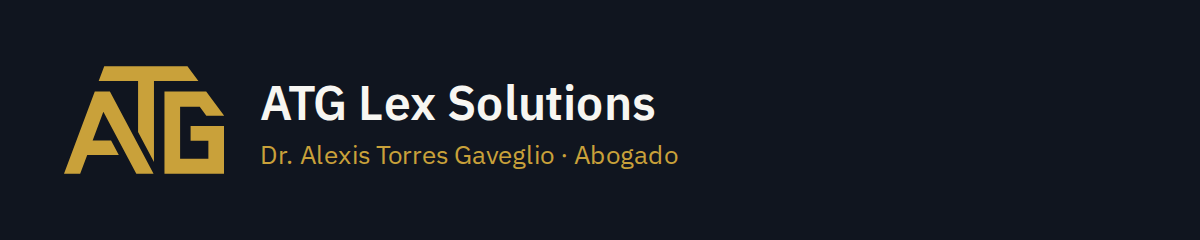
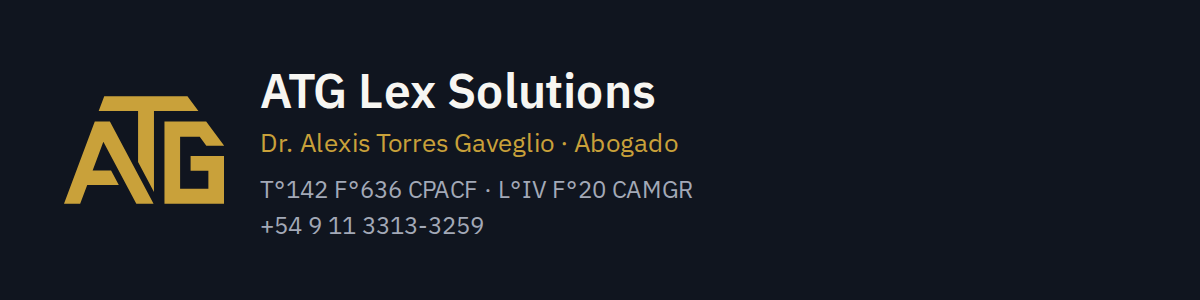
Encabezado de mail con matrícula y teléfono
Claude-Session: https://claude.ai/code/session_01WAEJdPq3XwKLAEZXuKBK7c

diff --git a/Context.md b/Context.md
@@ -96,7 +96,7 @@
 
 ### 2026-09-24 — Logo en los PDF y encabezado para los mails
 *   **PDF** (`utils/pdfMembrete.js`): membrete con el monograma dibujado en vector (mismos polígonos que `ui/Logo.jsx`), "ATG Lex Solutions", "Dr. Alexis Torres Gaveglio · Abogado" y una línea dorada. Lo usan el escrito de reclamo (`generarEscrito`) y el resumen del caso (`exportarCasoPDF`, cuyo pie ahora dice "ATG Lex Solutions" en vez de "PAS Tracker").
-*   **Mails:** `public/mail/encabezado.png` (1200×240, se muestra a 600 px) queda publicado en `https://pas-tracker20.vercel.app/mail/encabezado.png` para pegarlo arriba de las plantillas de EmailJS (derivaciones y documentación del cliente).
+*   **Mails:** `public/mail/encabezado.png` (1200×300, se muestra a 600 px; con matrícula T°142 F°636 CPACF · L°IV F°20 CAMGR y teléfono +54 9 11 3313-3259) queda publicado en `https://pas-tracker20.vercel.app/mail/encabezado.png` para pegarlo arriba de las plantillas de EmailJS (derivaciones y documentación del cliente).
 
 ### 2026-09-24 — Identidad visual: logo, íconos, vista previa del link e ilustraciones
 *   **Logo:** de las propuestas de Gemini se eligió el **ATG macizo**. Se redibujó en vector midiendo la imagen (el SVG que armó Gemini eran rectángulos encimados y no se leía ATG). `ui/Logo.jsx` (`MONOGRAMA_PATH`, viewBox 594×400) toma el color del acento. Reemplaza los cuadraditos "PT"/"ATG" en la barra lateral, el ingreso al estudio, el ingreso y la cabecera del portal, y la cabecera del cliente.
